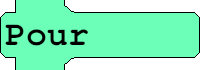
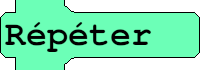
up

diff --git a/POO.py b/POO.py
@@ -267,7 +267,7 @@ def Write(b):
         f.write("\n" + tab * "\t" + "while "+b.getEntry()+":")
         tab = tab + 1
     if b.id == 6:
-        f.write("\n" + tab * "\t" + "for "+b.getEntry()+":")
+        f.write("\n" + tab * "\t" + "for z in range (0,"+b.getEntry()+") :")
         tab = tab + 1
     if b.id == 9:
         if time == False :
@@ -374,7 +374,7 @@ menu2.add_separator()
 menu2.add_command(label="Si", command=lambda: creationBloc(If()))
 menu2.add_command(label="Sinon", command=lambda: creationBloc(Else()))
 menu2.add_command(label='Fin de boucle', command=lambda: creationBloc(endOfLoop()))
-menu2.add_command(label='Pour', command=lambda: creationBloc(For()))
+menu2.add_command(label='Répéter', command=lambda: creationBloc(For()))
 menu2.add_command(label='Tant que', command=lambda: creationBloc(While()))
 menu2.add_separator()
 menu2.add_command(label='Variable', command=lambda: creationBloc(Variable()))
